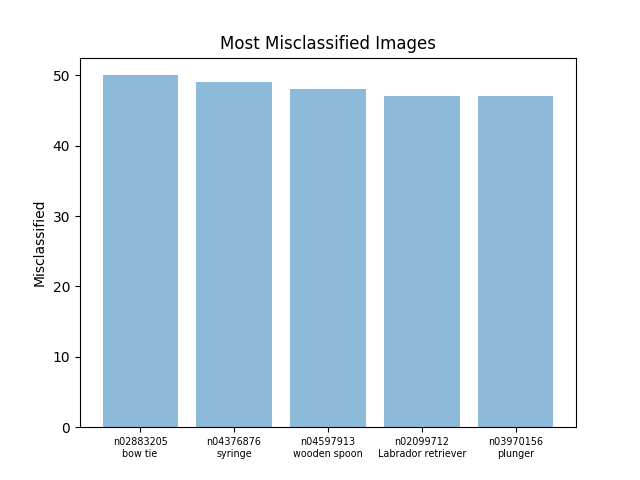
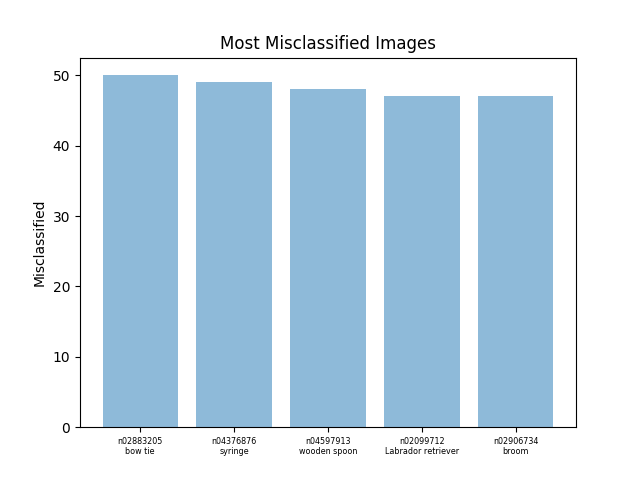
Change font size again

diff --git a/src/main.py b/src/main.py
@@ -181,7 +181,7 @@ def test(model, criterion, test_loader, epoch, val_losses, val_accs, idx_to_clas
         class_to_name = get_class_name(args)
 
         plt.bar(range(5), [l[1] for l in least], align='center', alpha=0.5)
-        plt.xticks(range(5), [l[0] + '\n' + class_to_name[l[0]] for l in least], fontsize='small')
+        plt.xticks(range(5), [l[0] + '\n' + class_to_name[l[0]] for l in least], fontsize='xx-small')
         plt.ylabel('Misclassified')
         plt.title('Least Misclassified Images')
         filename = '_'.join([args.prefix, args.dataset, args.model, 'err_least.png'])
@@ -189,7 +189,7 @@ def test(model, criterion, test_loader, epoch, val_losses, val_accs, idx_to_clas
         plt.clf()
 
         plt.bar(range(5), [m[1] for m in most], align='center', alpha=0.5)
-        plt.xticks(range(5), [m[0] + '\n' + class_to_name[m[0]] for m in most], fontsize='small')
+        plt.xticks(range(5), [m[0] + '\n' + class_to_name[m[0]] for m in most], fontsize='xx-small')
         plt.ylabel('Misclassified')
         plt.title('Most Misclassified Images')
         filename = '_'.join([args.prefix, args.dataset, args.model, 'err_most.png'])
